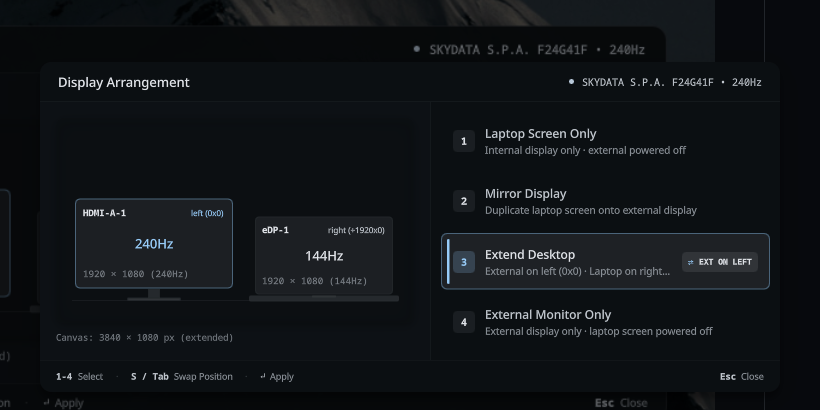
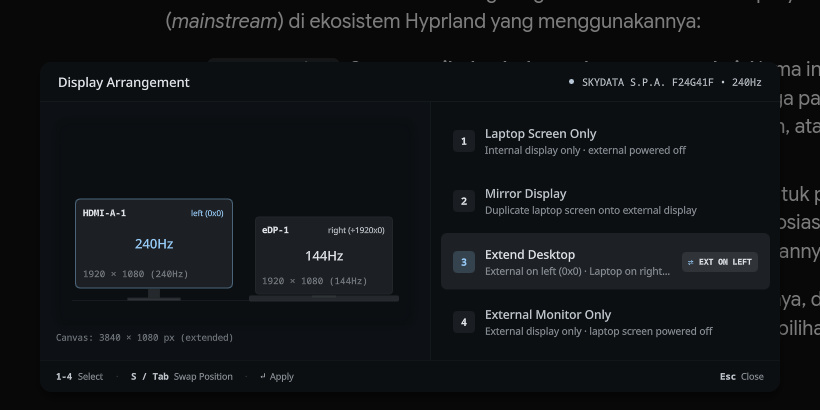
fix(ui): align projector beam light origin with optical lens and remove left hover lines on presets

diff --git a/quickshell/components/ProjectionBeam.qml b/quickshell/components/ProjectionBeam.qml
@@ -3,7 +3,7 @@ import QtQuick
 Canvas {
     id: root
     anchors.fill: parent
-    z: 0
+    z: 1
 
     property var themeColors: ({})
     property bool active: false
@@ -37,38 +37,52 @@ Canvas {
         let lx = startX;
         let ly = startY;
         let currentTx = lx + (targetX - lx) * (0.35 + 0.65 * beamSpread);
-        let currentHalfH = targetHalfHeight * Math.max(0.08, beamSpread);
-        let tyTop = targetYCenter - currentHalfH;
-        let tyBottom = targetYCenter + currentHalfH;
+        let currentHalfH = targetHalfHeight * Math.max(0.10, beamSpread);
+        let currentTargetY = ly + (targetYCenter - ly) * (0.35 + 0.65 * beamSpread);
+        let tyTop = currentTargetY - currentHalfH;
+        let tyBottom = currentTargetY + currentHalfH;
 
         let mColor = Qt.color(root.themeColors.mauve || "#cacb77");
         let mr = mColor.r;
         let mg = mColor.g;
         let mb = mColor.b;
 
-        let grad = ctx.createLinearGradient(lx, ly, currentTx, ly);
-        grad.addColorStop(0.0, Qt.rgba(mr, mg, mb, 0.15));
-        grad.addColorStop(0.55, Qt.rgba(mr, mg, mb, 0.04));
+        // 1. Soft glowing projection light cone gradient
+        let grad = ctx.createLinearGradient(lx, ly, currentTx, currentTargetY);
+        grad.addColorStop(0.0, Qt.rgba(mr, mg, mb, 0.24));
+        grad.addColorStop(0.35, Qt.rgba(mr, mg, mb, 0.10));
+        grad.addColorStop(0.75, Qt.rgba(mr, mg, mb, 0.03));
         grad.addColorStop(1.0, Qt.rgba(mr, mg, mb, 0.0));
 
         ctx.fillStyle = grad;
         ctx.beginPath();
-        ctx.moveTo(lx, ly - 4);
+        ctx.moveTo(lx, ly - 6);
         ctx.lineTo(currentTx, tyTop);
         ctx.lineTo(currentTx, tyBottom);
-        ctx.lineTo(lx, ly + 4);
+        ctx.lineTo(lx, ly + 6);
         ctx.closePath();
         ctx.fill();
 
-        let lineGrad = ctx.createLinearGradient(lx, ly, currentTx, ly);
-        lineGrad.addColorStop(0.0, Qt.rgba(mr, mg, mb, 0.20));
-        lineGrad.addColorStop(0.75, Qt.rgba(mr, mg, mb, 0.02));
+        // 2. Focused central projection ray
+        let lineGrad = ctx.createLinearGradient(lx, ly, currentTx, currentTargetY);
+        lineGrad.addColorStop(0.0, Qt.rgba(mr, mg, mb, 0.35));
+        lineGrad.addColorStop(0.60, Qt.rgba(mr, mg, mb, 0.08));
         lineGrad.addColorStop(1.0, Qt.rgba(mr, mg, mb, 0.0));
         ctx.strokeStyle = lineGrad;
-        ctx.lineWidth = 1;
+        ctx.lineWidth = 1.2;
         ctx.beginPath();
         ctx.moveTo(lx, ly);
-        ctx.lineTo(currentTx, ly);
+        ctx.lineTo(currentTx, currentTargetY);
         ctx.stroke();
+
+        // 3. Luminous lens aperture glow highlight
+        let lensGlow = ctx.createRadialGradient(lx, ly, 1, lx, ly, 9);
+        lensGlow.addColorStop(0.0, Qt.rgba(mr, mg, mb, 0.55));
+        lensGlow.addColorStop(0.40, Qt.rgba(mr, mg, mb, 0.20));
+        lensGlow.addColorStop(1.0, Qt.rgba(mr, mg, mb, 0.0));
+        ctx.fillStyle = lensGlow;
+        ctx.beginPath();
+        ctx.arc(lx, ly, 9, 0, 2 * Math.PI);
+        ctx.fill();
     }
 }

diff --git a/quickshell/components/ProjectorSlot.qml b/quickshell/components/ProjectorSlot.qml
@@ -13,8 +13,8 @@ Item {
     property string previewMode: "mirror"
     property string extMonitorName: ""
 
-    readonly property real lensX: x + width - 8
-    readonly property real lensY: y + 25
+    readonly property real lensX: width - 8
+    readonly property real lensY: 25
 
     y: (root.previewMode === "mirror") ? (parent.height - height) : (parent.height - height + 6)
     visible: opacity > 0.01
@@ -87,18 +87,24 @@ Item {
                     width: 24
                     height: 24
                     radius: 12
-                    color: Qt.alpha(root.themeColors.surface1 || "#2b2a22", 0.9)
+                    color: Qt.alpha(root.themeColors.surface1 || "#2b2a22", 0.95)
                     border.width: 1.5
-                    border.color: Qt.alpha(root.themeColors.mauve || "#cacb77", 0.5)
+                    border.color: (root.previewMode === "mirror")
+                        ? (root.themeColors.mauve || "#cacb77")
+                        : Qt.alpha(root.themeColors.mauve || "#cacb77", 0.5)
 
                     Rectangle {
                         anchors.centerIn: parent
                         width: 12
                         height: 12
                         radius: 6
-                        color: Qt.alpha(root.themeColors.mauve || "#cacb77", 0.25)
+                        color: (root.previewMode === "mirror")
+                            ? Qt.alpha(root.themeColors.mauve || "#cacb77", 0.60)
+                            : Qt.alpha(root.themeColors.mauve || "#cacb77", 0.25)
                         border.width: 1
-                        border.color: Qt.alpha(root.themeColors.mauve || "#cacb77", 0.45)
+                        border.color: (root.previewMode === "mirror")
+                            ? (root.themeColors.text || "#e6e3d5")
+                            : Qt.alpha(root.themeColors.mauve || "#cacb77", 0.45)
                     }
                 }
             }

diff --git a/quickshell/components/PresetSelector.qml b/quickshell/components/PresetSelector.qml
@@ -47,9 +47,8 @@ Rectangle {
             height: rowHeight
             y: root.selectedIndex * (rowHeight + 4)
             radius: 6
-            color: Qt.alpha(root.themeColors.surface1 || "#2b2a22", 0.70)
-            border.width: 1
-            border.color: Qt.alpha(root.themeColors.mauve || "#cacb77", 0.45)
+            color: Qt.alpha(root.themeColors.surface1 || "#2b2a22", 0.65)
+            border.width: 0
 
             Behavior on y {
                 NumberAnimation {
@@ -83,18 +82,6 @@ Rectangle {
 
                     scale: itemMa.pressed ? 0.985 : 1.0
                     Behavior on scale { NumberAnimation { duration: 100; easing.type: Easing.OutCubic } }
-
-                    // Active indicator tick on left edge
-                    Rectangle {
-                        visible: presetItem.isCurrent
-                        anchors.left: parent.left
-                        anchors.top: parent.top
-                        anchors.bottom: parent.bottom
-                        anchors.margins: 6
-                        width: 2.5
-                        radius: 1.25
-                        color: root.themeColors.mauve || "#cacb77"
-                    }
 
                     RowLayout {
                         z: 1

diff --git a/quickshell/components/SpatialArrangementViewport.qml b/quickshell/components/SpatialArrangementViewport.qml
@@ -95,7 +95,7 @@ Rectangle {
                 // ─── 1. EXTERNAL DISPLAY SLOT (Monitor Stand OR Projector) ───
                 Item {
                     id: extSlot
-                    z: 1
+                    z: 2
                     width: 164
                     height: 104
                     x: {
@@ -150,6 +150,7 @@ Rectangle {
                 // ─── 2. LAPTOP DISPLAY SLOT (Lid + Chassis & Touchpad Notch) ───
                 LaptopSlot {
                     id: laptopSlot
+                    z: 2
                     themeColors: root.themeColors
                     fontSans: root.fontSans
                     fontMono: root.fontMono
